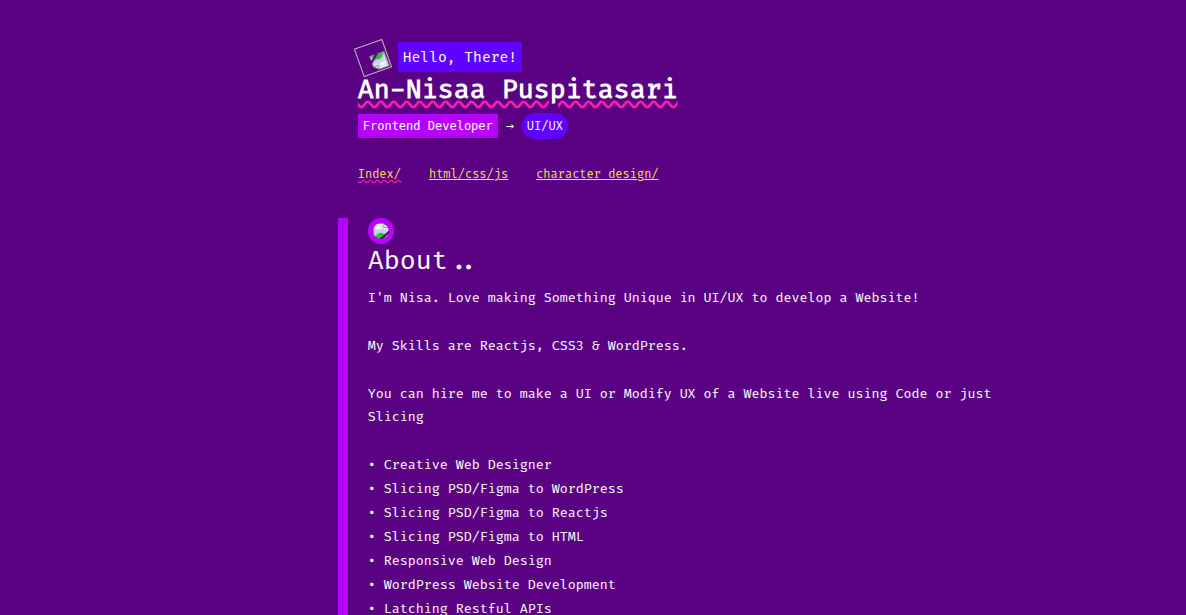
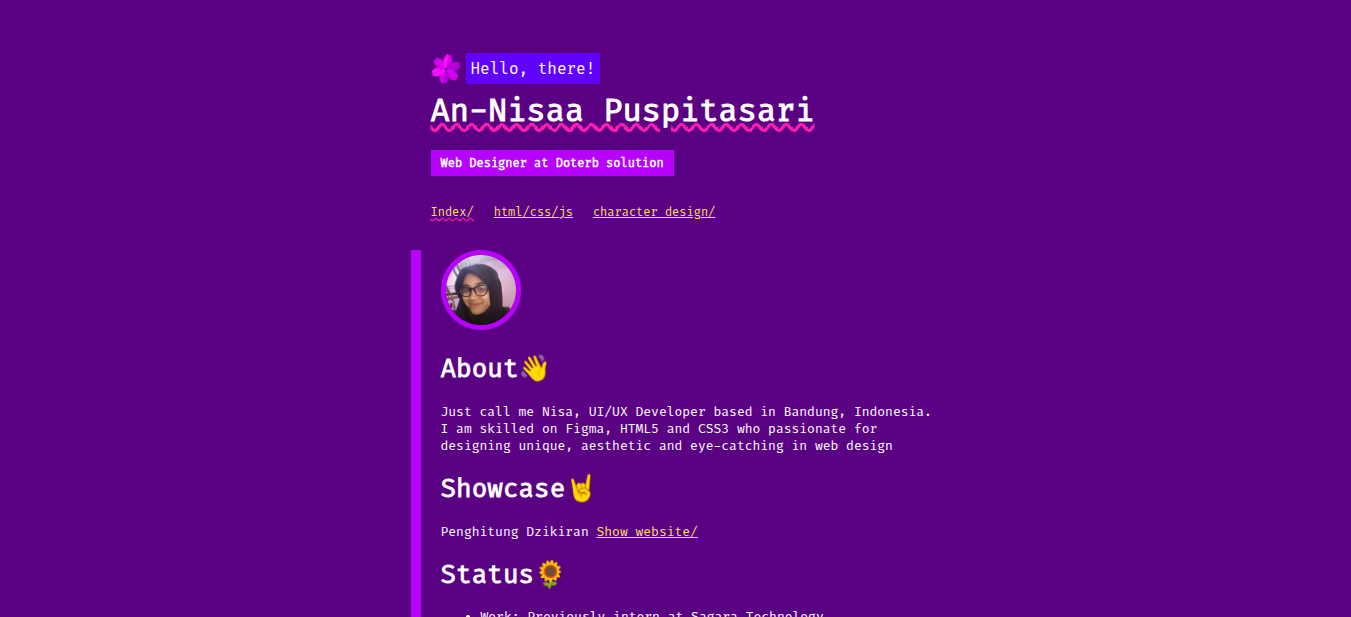
Update legacy portfolio description

Changed region(s): [[0.2808, 0.3398, 0.8423, 1.0], [0.2808, 0.0618, 0.6239, 0.3089]]

diff --git a/projects.html b/projects.html
@@ -53,7 +53,7 @@
             <a href="https://determined-calendar.surge.sh/" target="_blank"><img src="./assets/project-13.png" alt="portfolio-17" width="390px" height="200px"><h2>Wattpad-Inspired Book Library UI</h2><p>A digital library interface concept showcasing categorized book displays and structured browsing experience.</p><button>Web Development</button></a>
             <a href="https://pinko.vercel.app/" target="_blank"><img src="https://res.cloudinary.com/codelifings/image/upload/v1595574544/screenshot_-2020-04-02-pink-o_s2iusc.png" alt="portfolio-17" width="390px" height="200px"><h2>Pinko – Productivity App UI</h2><p>A multi-feature productivity app combining notes, task management, and a Pomodoro timer in one streamlined interface.</p><button>Web Development</button></a>
             <a href="https://boogle.vercel.app/" target="_blank"><img src="./assets/project-19.png" alt="portfolio-17" width="390px" height="200px"><h2>Boogle Search Intro Page</h2><p>A playful recreation of a classic search engine intro page to explore minimalist layout control.</p><button>Web Development</button></a>
-            <a href="https://x5ivy.csb.app/index.html" target="_blank"><img src="./assets/project-21.png" alt="portfolio-17" width="390px" height="200px"><h2>Simple Portfolio (Classic)</h2><p>A minimal and structured portfolio built during early learning stages, emphasizing semantic HTML and layout fundamentals.</p><button>Web Development</button></a>
+            <a href="https://nisa-codelifings.netlify.app/" target="_blank"><img src="./assets/project-21.png" alt="My legacy portfolio" width="390px" height="200px"><h2>My Legacy Portfolio</h2><p>A simple, unique and structured portfolio built during early learning stages, emphasizing semantic HTML and layout fundamentals.</p><button>Web Development</button></a>
             <a href="https://simpleazy.vercel.app" target="_blank"><img src="https://res.cloudinary.com/nisacodelifings/image/upload/v1658579035/simpleazy-index_qn0wfj.png" alt="portfolio-17" width="390px" height="200px"><h2>Simpleazy – Introductory Web Design</h2><p>My first structured HTML/CSS project built during high school, exploring layout systems, typography, and UI fundamentals.</p><button>Web Development</button></a>
         </div>
         <div class="hero instrument-serif">
